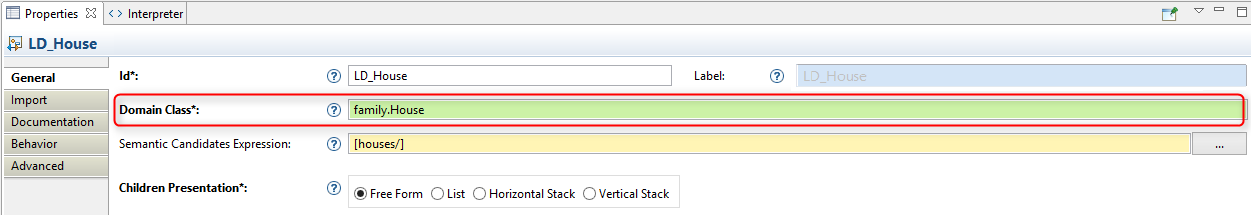
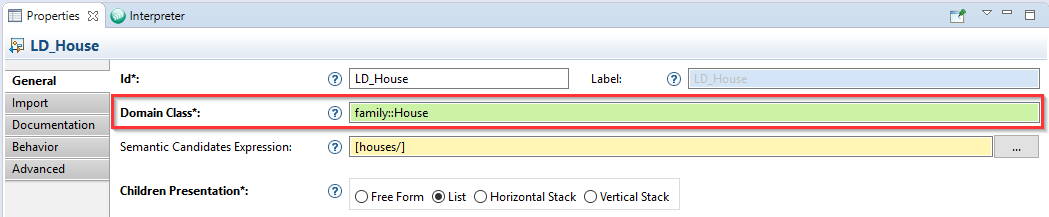
[507065] Make the new syntax the default and update documentation
- Update default syntax used to define domain classes.
- Update documentation and release note.

Bug: 507065

diff --git a/plugins/org.eclipse.sirius.doc/doc/specifier/general/Specifying_Viewpoints.html b/plugins/org.eclipse.sirius.doc/doc/specifier/general/Specifying_Viewpoints.html
@@ -282,11 +282,28 @@
 		</p>
 		<p>
 			<img border="0" src="images/domain_class.png"/>
-			<br/>The syntax for type names can be the basic name, like 
-			<code>Class</code>, a qualified name using name of the EMF EPackage which defines the type, like 
-			<code>uml.Class</code>, or a fully qualified URI like 
-			<code>http://www.eclipse.org/uml2/3.0.0/UML#//Class</code>.
+			<br/>The syntax for type names are the following:
 		</p>
+		<ul>
+			<li>
+				<strong>minimal syntax:</strong> it is the basic name, like 
+				<code>Class</code>,
+			</li>
+			<li>
+				<strong>AQL/OCL syntax:</strong> a qualified name using name of the EMF EPackage which defines the type with the separator 
+				<code>::</code> like  
+				<code>uml::Class</code>. It is the default and 
+				<strong>recommended</strong> syntax, consistent with how qualified type names are written in AQL
+			</li>
+			<li>
+				<strong>legacy qualified name like syntax:</strong> it is a qualified name using name of the EMF EPackage which defines the type, like 
+				<code>uml.Class</code>.
+			</li>
+			<li>
+				<strong>fully qualified URI</strong>: like 
+				<code>http://www.eclipse.org/uml2/3.0.0/UML#//Class</code>.
+			</li>
+		</ul>
 		<p>Auto-completion is available in these fields using the 
 			<em>Ctrl+Space</em> shortcut. It is recommended to explicitly associate a meta-model (or more) to your representations definitions to allow for smarter completion. Otherwise by default it will include all types from any EMF meta-model available.
 		</p>

diff --git a/plugins/org.eclipse.sirius.doc/doc/Release_Notes.html b/plugins/org.eclipse.sirius.doc/doc/Release_Notes.html
@@ -120,8 +120,13 @@
 		</ul>
 		<h3 id="SpecifierVisibleChanges">Specifier-Visible Changes</h3>
 		<ul>
-			<li><span class="label label-info">Modified</span> The tab used to configure the metamodels used by the Properties view description is now using the same interface as the metamodels tab used to configure the representations.</li>
 			<li><span class="label label-success">Added</span> It is now possible to create one or multiple pre-configured widget(s) in a group if its domain class and if the meta-models of the properties view containing it have been specified.</li>
+			<li><span class="label label-info">Modified</span> The tab used to configure the metamodels used by the Properties view description is now using the same interface as the metamodels tab used to configure the representations.</li>
+			<li><span class="label label-info">Modified</span> The 
+				<code>package::Class</code> syntax for domain classes and type names in the VSM is now fully supported and the new default. It means this syntax is interpreted by Sirius and completion is provided for it when the first 
+				<code>:</code> character is entered. The legacy syntax 
+				<code>package.Class</code> is still supported for compatibility.
+			</li>
 		</ul>
 		<h3 id="DeveloperVisibleChanges">Developer-Visible Changes</h3>
 		<h4 id="Changesinorg.eclipse.sirius.ui">Changes in 

diff --git a/plugins/org.eclipse.sirius.editor/src/org/eclipse/sirius/editor/tools/internal/assist/TypeContentProposal.java b/plugins/org.eclipse.sirius.editor/src/org/eclipse/sirius/editor/tools/internal/assist/TypeContentProposal.java
@@ -43,6 +43,7 @@ public class TypeContentProposal implements IContentProposal {
     /**
      * {@inheritDoc}
      */
+    @Override
     public String getContent() {
         final String content = getLabel().substring(incomplete.length());
         return content;
@@ -51,6 +52,7 @@ public class TypeContentProposal implements IContentProposal {
     /**
      * {@inheritDoc}
      */
+    @Override
     public int getCursorPosition() {
         return getLabel().length() + 1;
     }
@@ -58,6 +60,7 @@ public class TypeContentProposal implements IContentProposal {
     /**
      * {@inheritDoc}
      */
+    @Override
     public String getDescription() {
         String description = getLabel();
         final String doc = EcoreUtil.getDocumentation(proposal);
@@ -82,14 +85,17 @@ public class TypeContentProposal implements IContentProposal {
     /**
      * {@inheritDoc}
      */
+    @Override
     public String getLabel() {
         String label = proposal.getName();
         String pkgName = proposal.getEPackage().getName();
         if (pkgName != null) {
-            // Propose "." by default, unless the user already started using "::"
-            String separator = ".";
+            // Propose "::" by default, unless the user already started using "."
+            String separator = "::";
             if (incomplete.startsWith(pkgName + ":")) {
                 separator = "::";
+            } else if (incomplete.startsWith(pkgName + ".")) {
+                separator = ".";
             }
             String fullyQualifiedProposal = pkgName + separator + proposal.getName();
             if (fullyQualifiedProposal.startsWith(incomplete)) {
